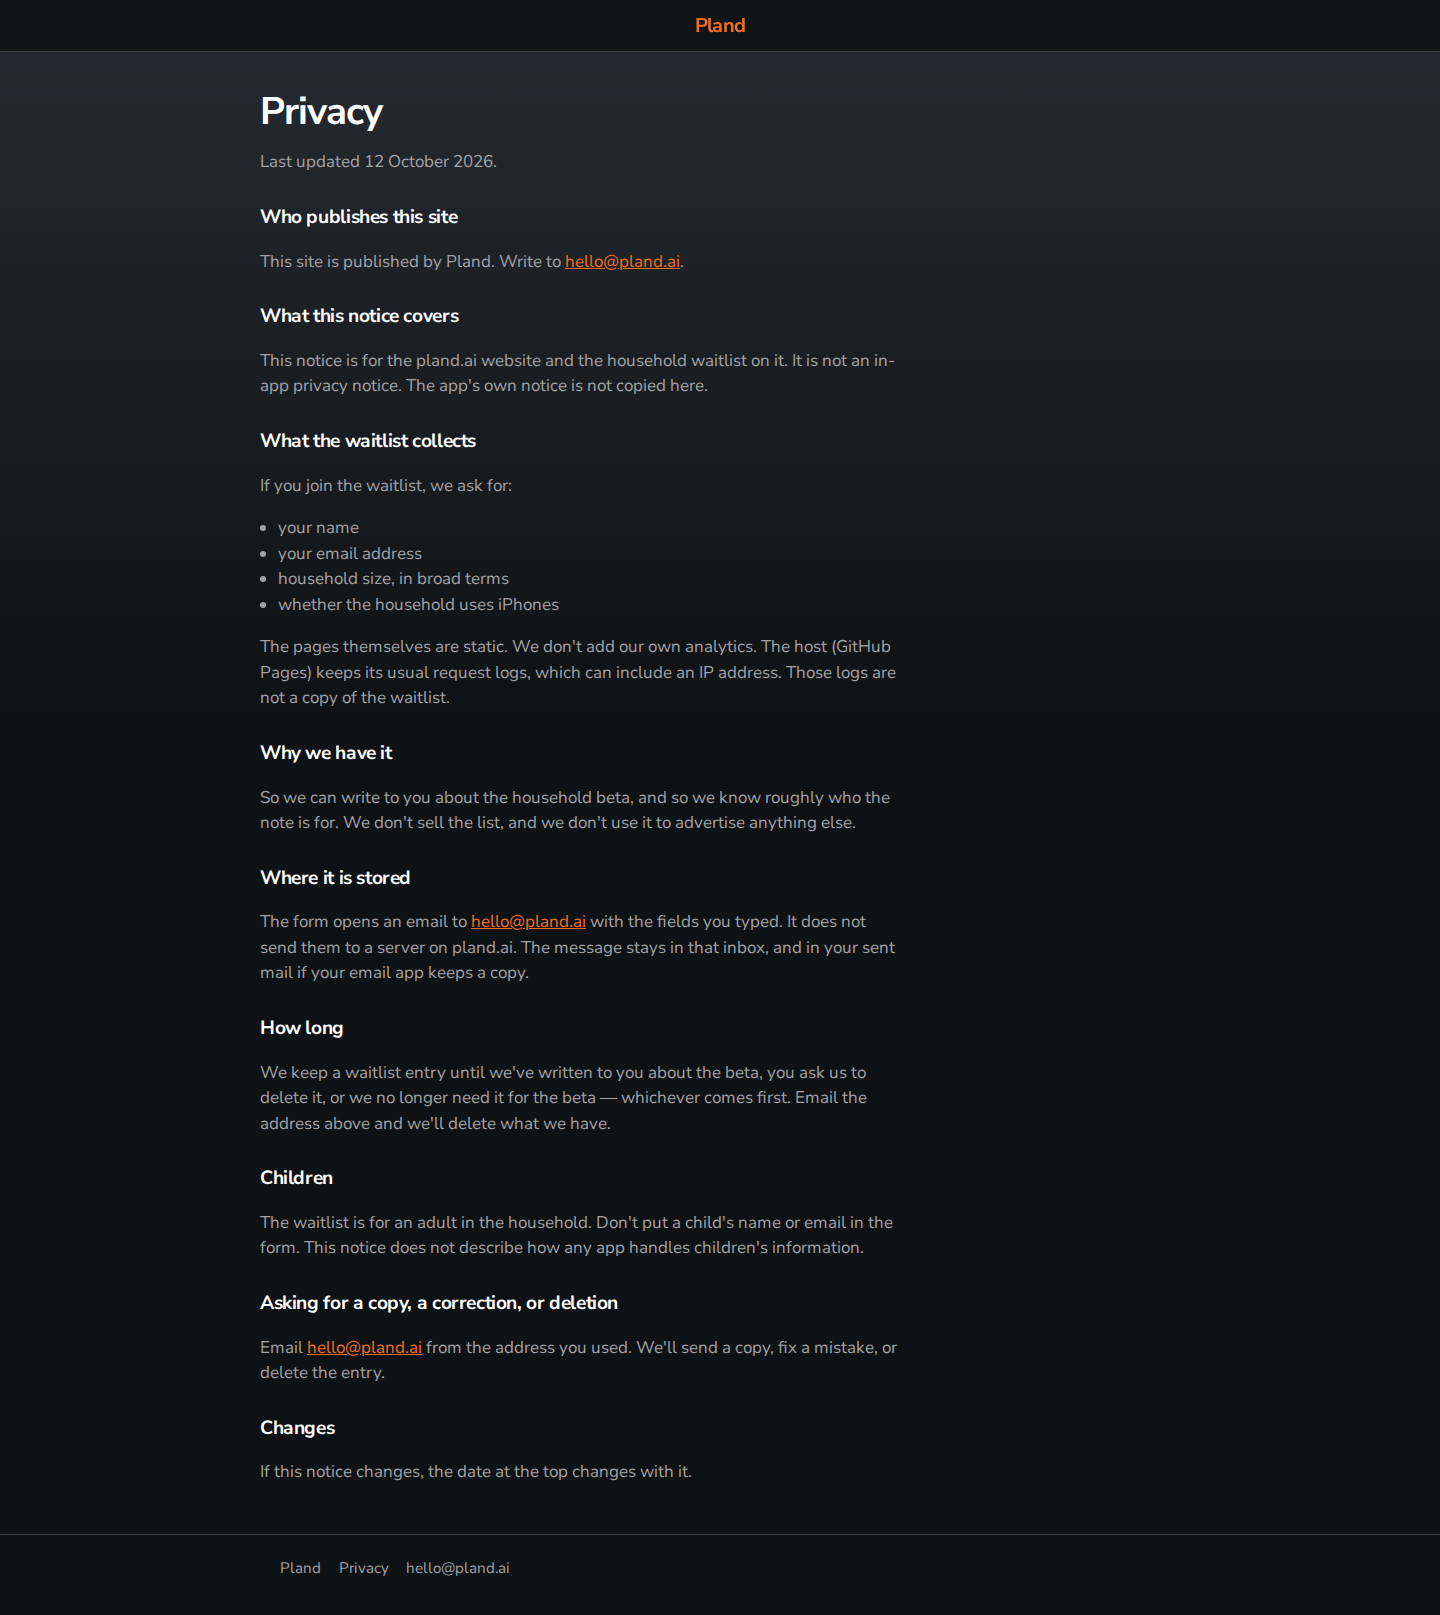
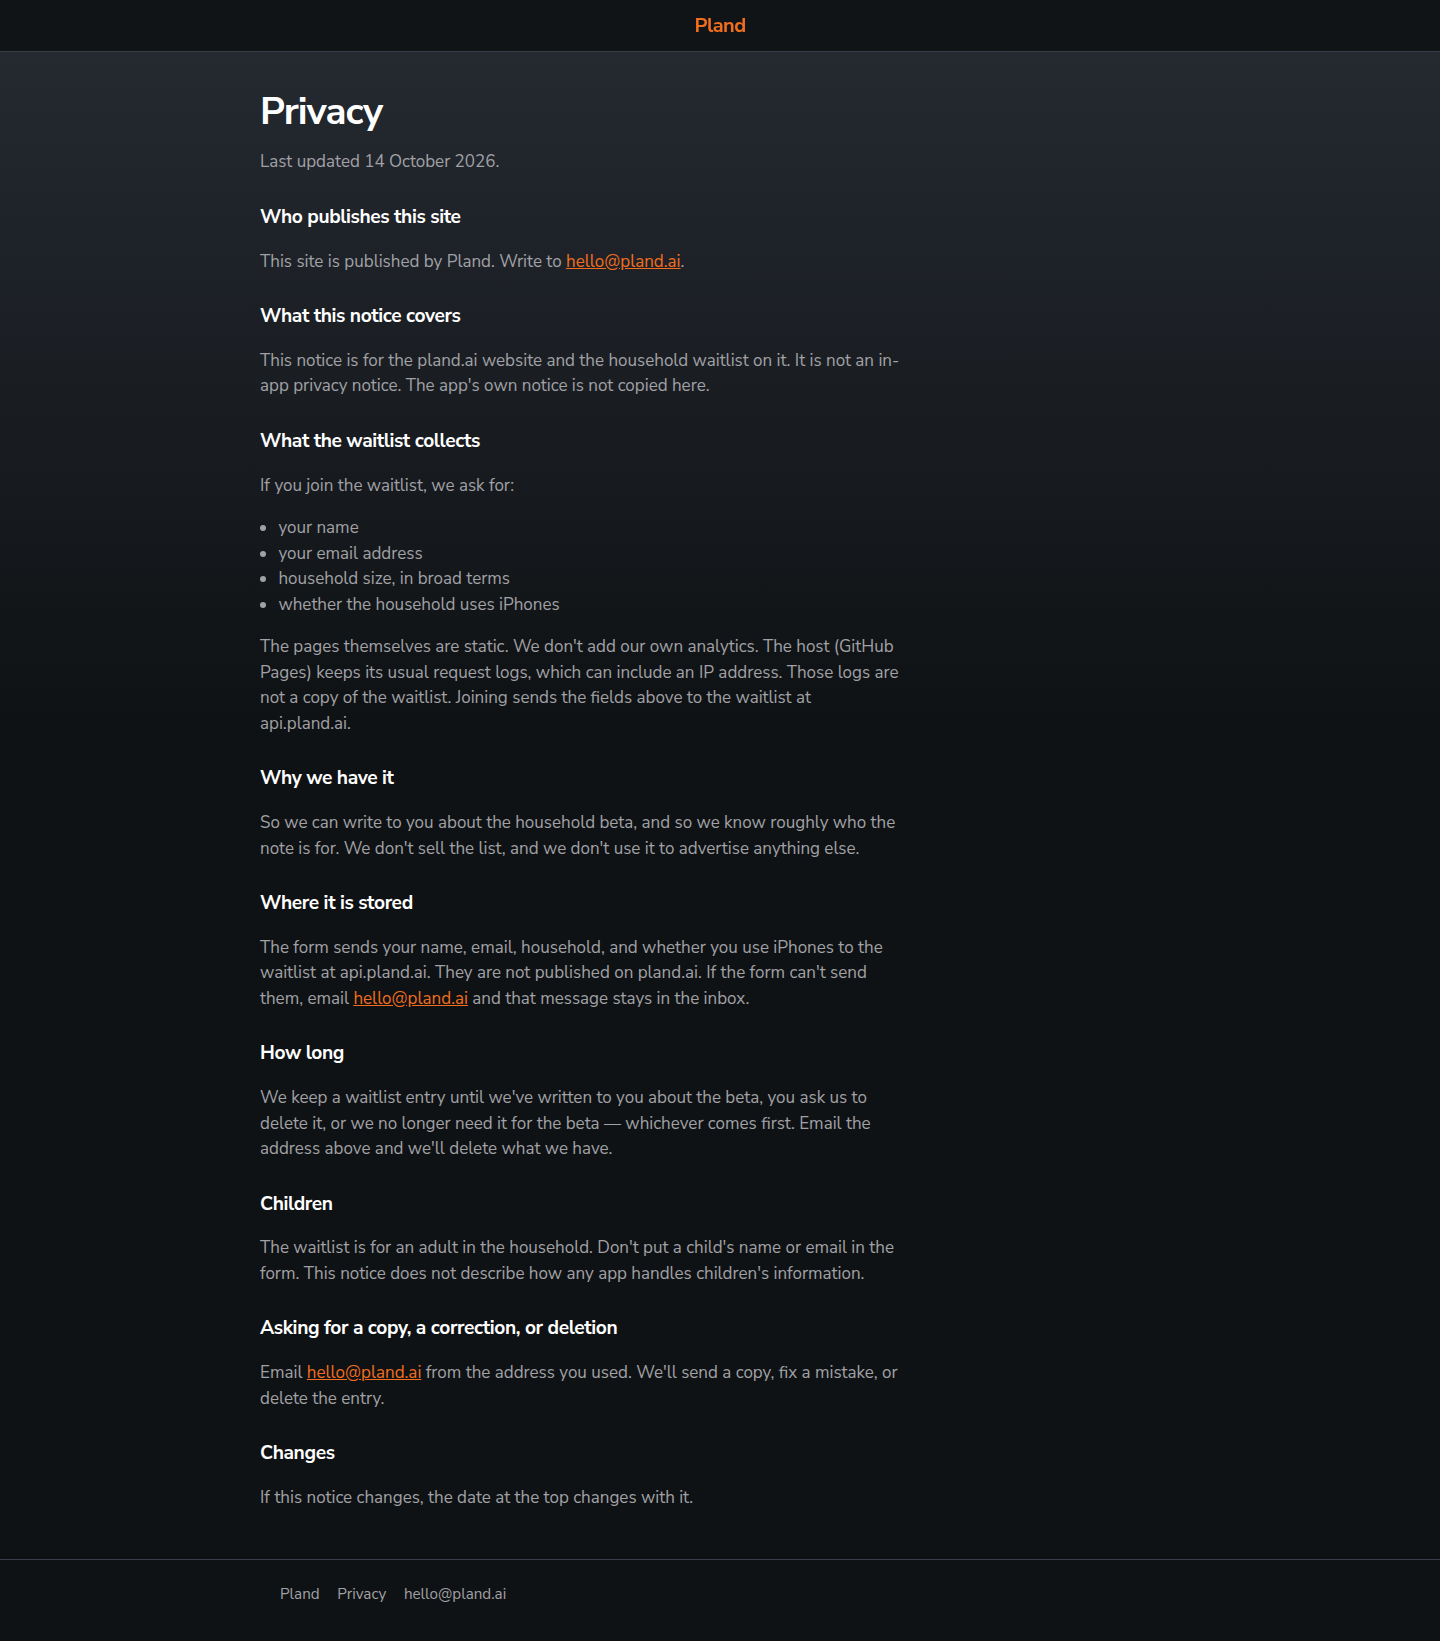
Post the homepage waitlist to api.pland.ai (#12)
The form sends name, email, household, and ios as JSON. The button
stays disabled while the request is in flight, and success or failure
stays on the page in plain language, with hello@pland.ai if it fails.

Changed region(s): [[0.1562, 0.0619, 0.625, 0.9288], [0.2188, 0.9598, 0.3438, 0.9907]]

diff --git a/waitlist.js b/waitlist.js
@@ -1,30 +1,126 @@
 (function () {
+  var ENDPOINT = "https://api.pland.ai/waitlist";
   var form = document.getElementById("waitlist-form");
   var status = document.getElementById("waitlist-status");
-  if (!form || !status) return;
+  var button = form ? form.querySelector("button") : null;
+  if (!form || !status || !button) return;
+
+  var sending = false;
+  var buttonLabel = button.textContent;
+
+  function say(kind, text) {
+    status.className = kind ? "form-status " + kind : "form-status";
+    status.textContent = text;
+  }
+
+  function cleanName(value) {
+    var name = value.trim().replace(/\s+/g, " ");
+    if (!name || name.length > 120) return "";
+    if (/[\u0000-\u001f]/.test(name)) return "";
+    return name;
+  }
+
+  function cleanEmail(value) {
+    var email = value.trim();
+    if (!email || email.length > 200) return "";
+    if (!/^[^\s@]+@[^\s@]+\.[^\s@]+$/.test(email)) return "";
+    return email;
+  }
+
+  function allowedSelect(select) {
+    var value = select.value;
+    if (!value) return "";
+    for (var i = 0; i < select.options.length; i++) {
+      if (select.options[i].value === value && !select.options[i].disabled) return value;
+    }
+    return "";
+  }
+
+  function messageFor(statusCode, code) {
+    if (statusCode === 429 || code === "rate_limited") {
+      return "That's a few too many tries. Wait a little, or email hello@pland.ai.";
+    }
+    if (code === "invalid_email") {
+      return "That email doesn't look right. Check it and try again, or email hello@pland.ai.";
+    }
+    if (code === "invalid_name" || code === "invalid_household" || code === "invalid_iphone") {
+      return "Check your name, household, and whether you use iPhones, or email hello@pland.ai.";
+    }
+    return "That didn't save. Try again in a moment, or email hello@pland.ai.";
+  }
+
+  function finishError(text) {
+    sending = false;
+    button.disabled = false;
+    button.textContent = buttonLabel;
+    form.removeAttribute("aria-busy");
+    say("err", text);
+  }
 
   form.addEventListener("submit", function (event) {
     event.preventDefault();
-    var name = form.name.value.trim();
+    if (sending) return;
+
+    var name = cleanName(form.name.value);
     var email = form.email.value.trim();
-    var household = form.household.value;
-    var ios = form.ios.value;
+    var household = allowedSelect(form.household);
+    var ios = allowedSelect(form.ios);
+    form.email.removeAttribute("aria-invalid");
+
     if (!name || !email || !household || !ios) {
-      status.className = "form-status err";
-      status.textContent = "Add your name, email, household, and whether you use iPhones.";
+      if (form.name.value.trim() && !name) {
+        say("err", "Check your name and try again.");
+        return;
+      }
+      say("err", "Add your name, email, household, and whether you use iPhones.");
       return;
     }
-    var subject = encodeURIComponent("Pland household beta — access request");
-    var body = encodeURIComponent(
-      "Name: " + name + "\n" +
-      "Household: " + household + "\n" +
-      "iOS: " + ios + "\n" +
-      "Email: " + email + "\n"
-    );
-    status.className = "form-status ok";
-    status.textContent = "Opening an email to hello@pland.ai.";
-    var href = "mailto:hello@pland.ai?subject=" + subject + "&body=" + body;
-    if (window.plOpenMail) window.plOpenMail(href);
-    else window.location.href = href;
+    if (!cleanEmail(email)) {
+      form.email.setAttribute("aria-invalid", "true");
+      say("err", "That email doesn't look right. Check it and try again.");
+      return;
+    }
+
+    sending = true;
+    button.disabled = true;
+    button.textContent = "Joining…";
+    form.setAttribute("aria-busy", "true");
+    say("", "Joining the waitlist…");
+
+    var controller = new AbortController();
+    var timer = setTimeout(function () { controller.abort(); }, 12000);
+    fetch(ENDPOINT, {
+      method: "POST",
+      headers: { "Content-Type": "application/json" },
+      body: JSON.stringify({
+        name: name,
+        email: email,
+        household: household,
+        ios: ios
+      }),
+      signal: controller.signal,
+      credentials: "omit",
+      mode: "cors",
+      cache: "no-store"
+    }).then(function (res) {
+      return res.json().then(function (body) {
+        return { statusCode: res.status, body: body };
+      }).catch(function () {
+        return { statusCode: res.status, body: null };
+      });
+    }).then(function (result) {
+      var body = result.body && typeof result.body === "object" ? result.body : {};
+      if (result.statusCode >= 200 && result.statusCode < 300 && body.ok === true) {
+        form.hidden = true;
+        form.removeAttribute("aria-busy");
+        say("ok", "You're on the list. We'll write with TestFlight details.");
+        return;
+      }
+      finishError(messageFor(result.statusCode, typeof body.error === "string" ? body.error : ""));
+    }).catch(function () {
+      finishError("That didn't save. Try again in a moment, or email hello@pland.ai.");
+    }).finally(function () {
+      clearTimeout(timer);
+    });
   });
 })();

diff --git a/privacy/index.html b/privacy/index.html
@@ -21,7 +21,7 @@
 
   <main class="wrap prose">
     <h1>Privacy</h1>
-    <p>Last updated 12 October 2026.</p>
+    <p>Last updated 14 October 2026.</p>
 
     <h2>Who publishes this site</h2>
     <p>This site is published by Pland. Write to <a href="mailto:hello@pland.ai">hello@pland.ai</a>.</p>
@@ -37,13 +37,13 @@
       <li>household size, in broad terms</li>
       <li>whether the household uses iPhones</li>
     </ul>
-    <p>The pages themselves are static. We don't add our own analytics. The host (GitHub Pages) keeps its usual request logs, which can include an IP address. Those logs are not a copy of the waitlist.</p>
+    <p>The pages themselves are static. We don't add our own analytics. The host (GitHub Pages) keeps its usual request logs, which can include an IP address. Those logs are not a copy of the waitlist. Joining sends the fields above to the waitlist at api.pland.ai.</p>
 
     <h2>Why we have it</h2>
     <p>So we can write to you about the household beta, and so we know roughly who the note is for. We don't sell the list, and we don't use it to advertise anything else.</p>
 
     <h2>Where it is stored</h2>
-    <p>The form opens an email to <a href="mailto:hello@pland.ai">hello@pland.ai</a> with the fields you typed. It does not send them to a server on pland.ai. The message stays in that inbox, and in your sent mail if your email app keeps a copy.</p>
+    <p>The form sends your name, email, household, and whether you use iPhones to the waitlist at api.pland.ai. They are not published on pland.ai. If the form can't send them, email <a href="mailto:hello@pland.ai">hello@pland.ai</a> and that message stays in the inbox.</p>
 
     <h2>How long</h2>
     <p>We keep a waitlist entry until we've written to you about the beta, you ask us to delete it, or we no longer need it for the beta — whichever comes first. Email the address above and we'll delete what we have.</p>

diff --git a/index.html b/index.html
@@ -52,7 +52,7 @@
       <h2>Join the waitlist</h2>
       <p class="lead">Tell us about the household. We'll write with TestFlight details.</p>
       <div class="form-card">
-        <form id="waitlist-form" action="mailto:hello@pland.ai" method="post" enctype="text/plain">
+        <form id="waitlist-form" action="https://api.pland.ai/waitlist" method="post" novalidate>
           <label for="name">Name</label>
           <input id="name" name="name" type="text" autocomplete="name" required maxlength="120" />
           <label for="email">Email</label>
@@ -73,7 +73,7 @@
             <option>No / mixed</option>
           </select>
           <div class="form-actions">
-            <button class="btn" type="submit">Join the waitlist</button>
+            <button class="btn" id="waitlist-submit" type="submit">Join the waitlist</button>
           </div>
         </form>
         <p id="waitlist-status" class="form-status" role="status" aria-live="polite"></p>

diff --git a/README.md b/README.md
@@ -12,7 +12,7 @@ Pages publishes `main` only, so a pull request has no host preview URL.
 
 ## Waitlist
 
-The form opens a `mailto:hello@pland.ai` message. It does not post to a backend. The same address is linked under the form.
+The form posts JSON to `https://api.pland.ai/waitlist` with `name`, `email`, `household`, and `ios`. A saved signup returns `{"ok":true}`. The button stays disabled while that request is in flight. Empty fields and a badly shaped email are checked in the page before anything is sent. Success and failure stay under the form, in the same dark palette the rest of the site uses (`prefers-color-scheme` does not switch it). Failure copy is a sentence, including a pointer to hello@pland.ai. The address is also linked under the form. Raw error codes from the API are not shown.
 
 ## Privacy
 
@@ -26,7 +26,7 @@ GitHub Pages has Enforce HTTPS on (`https_enforced: true` from `gh api repos/Wil
 
 Nunito Sans is self-hosted from `/fonts/` (SIL Open Font License, see `fonts/OFL.txt`). Styles and scripts are same-origin files. There is no analytics, no iframe, and no third-party script, font, or stylesheet.
 
-The only live external target is `mailto:hello@pland.ai`. The content security policy also allows `https://api.pland.ai` on `connect-src` and `form-action` for later. The pages do not call it. There is no app API host and no Mini. `/plaid/redirect` is the iOS return path: a same-origin page with a `pland://` link, not a network API.
+The waitlist posts to `https://api.pland.ai/waitlist`. `mailto:hello@pland.ai` stays as the contact address and as the fallback when a signup does not go through. There is no analytics, no iframe, and no third-party script, font, or stylesheet. There is no Mini. `/plaid/redirect` is the iOS return path: a same-origin page with a `pland://` link, not a network API.
 
 ## Content security policy
 
